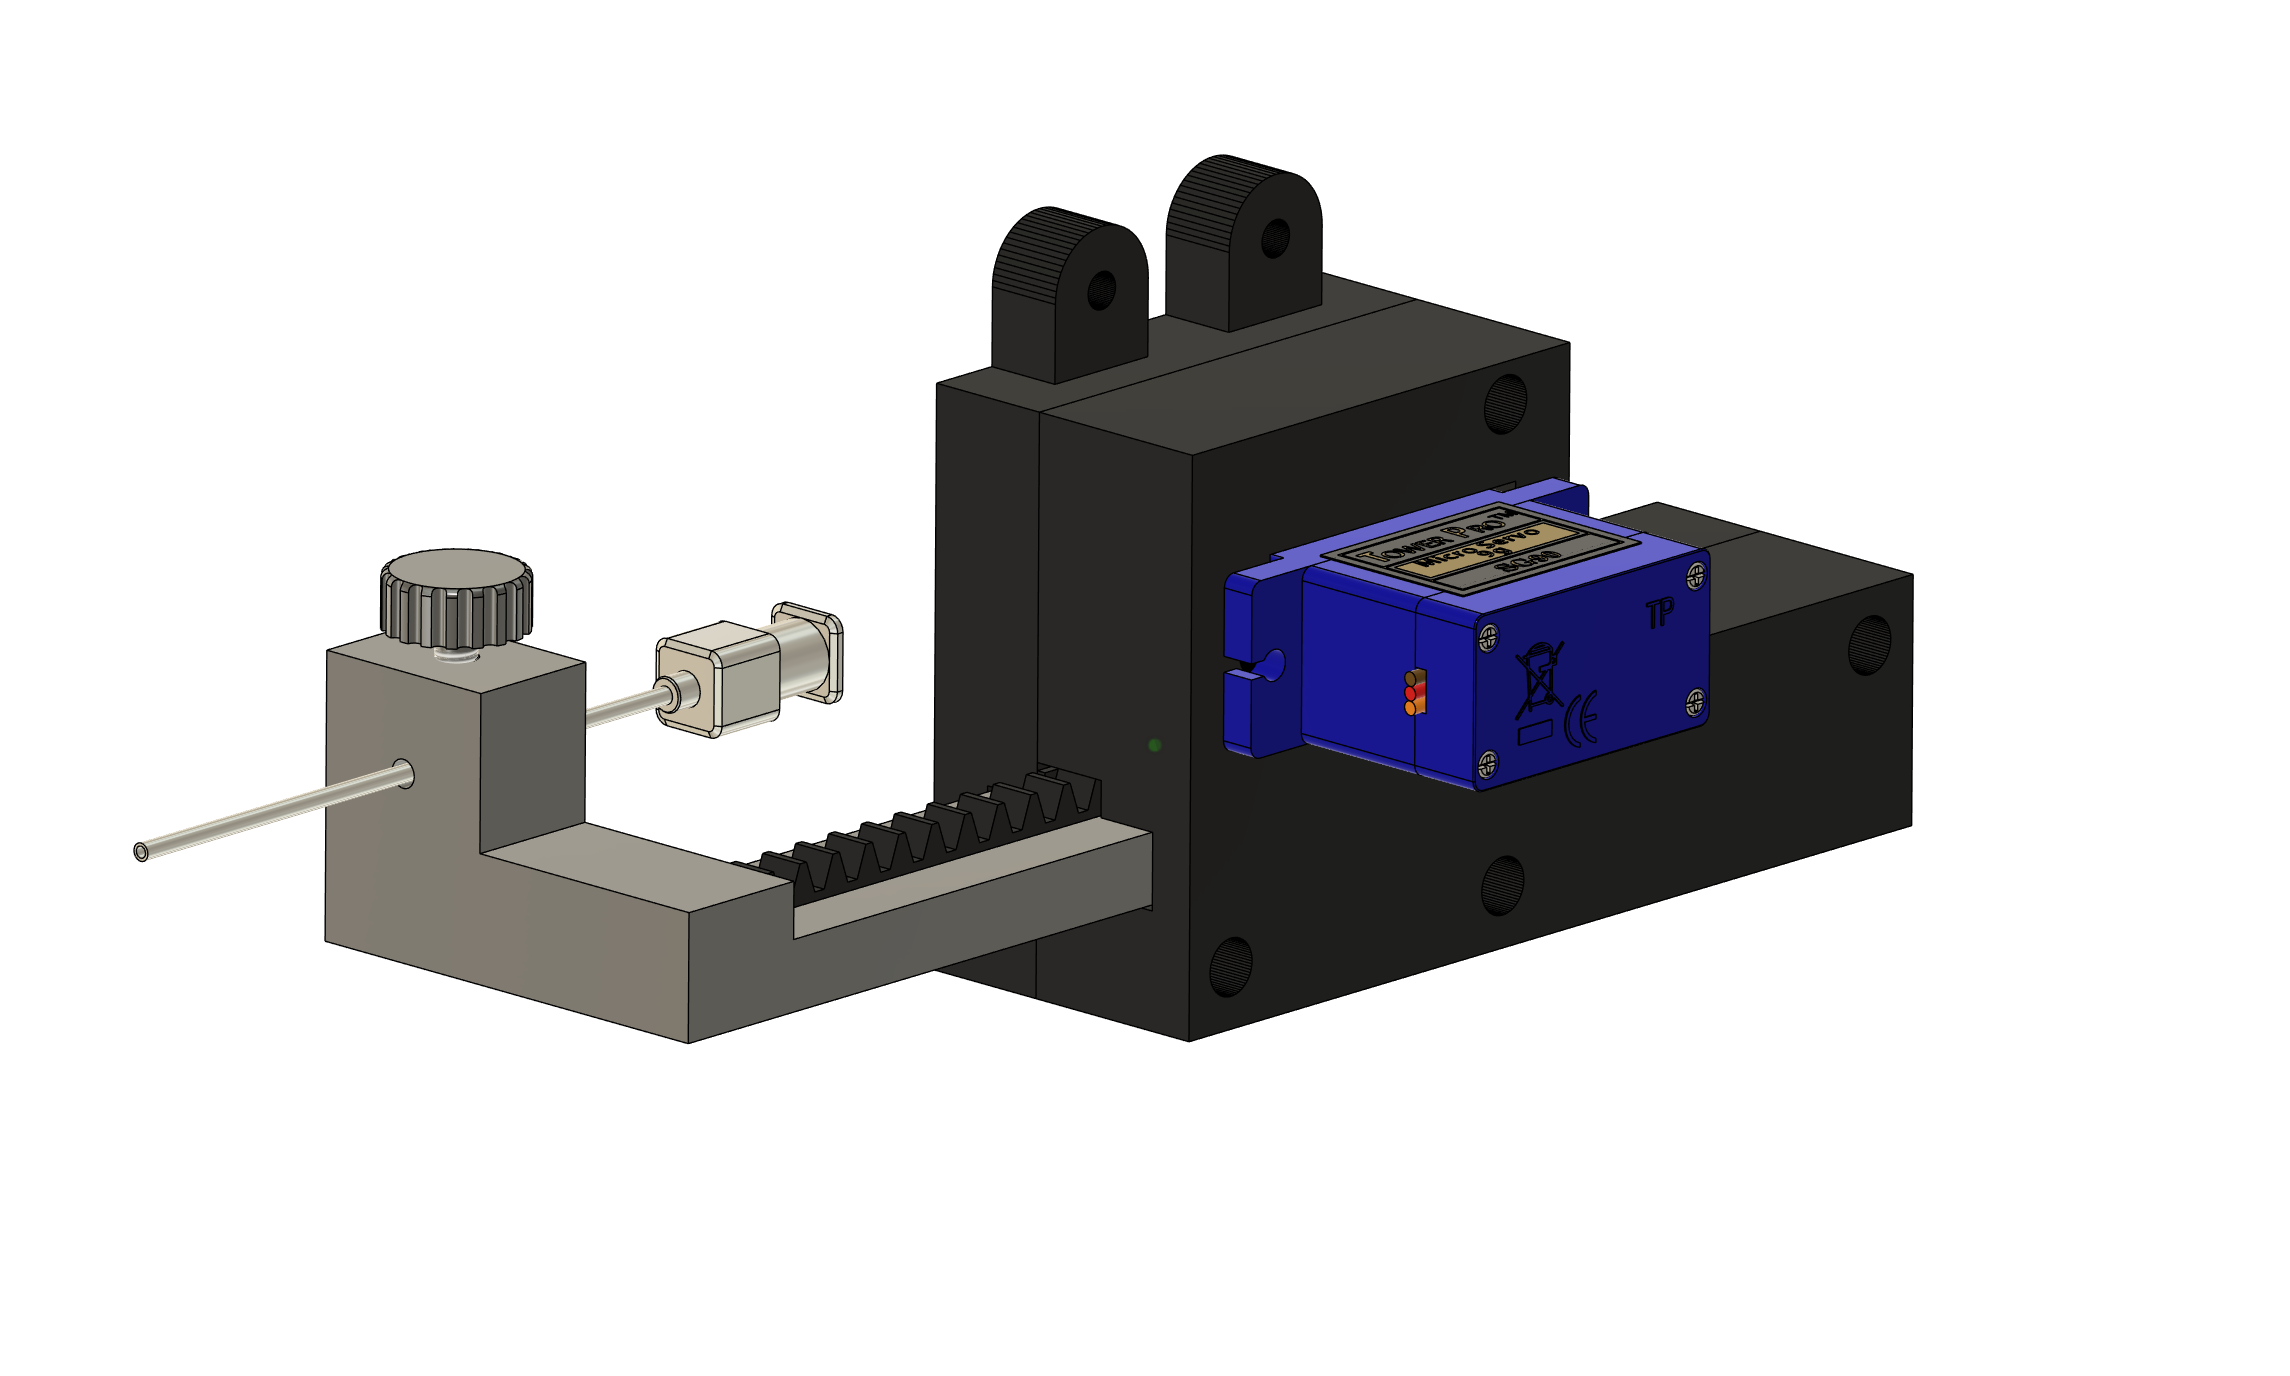
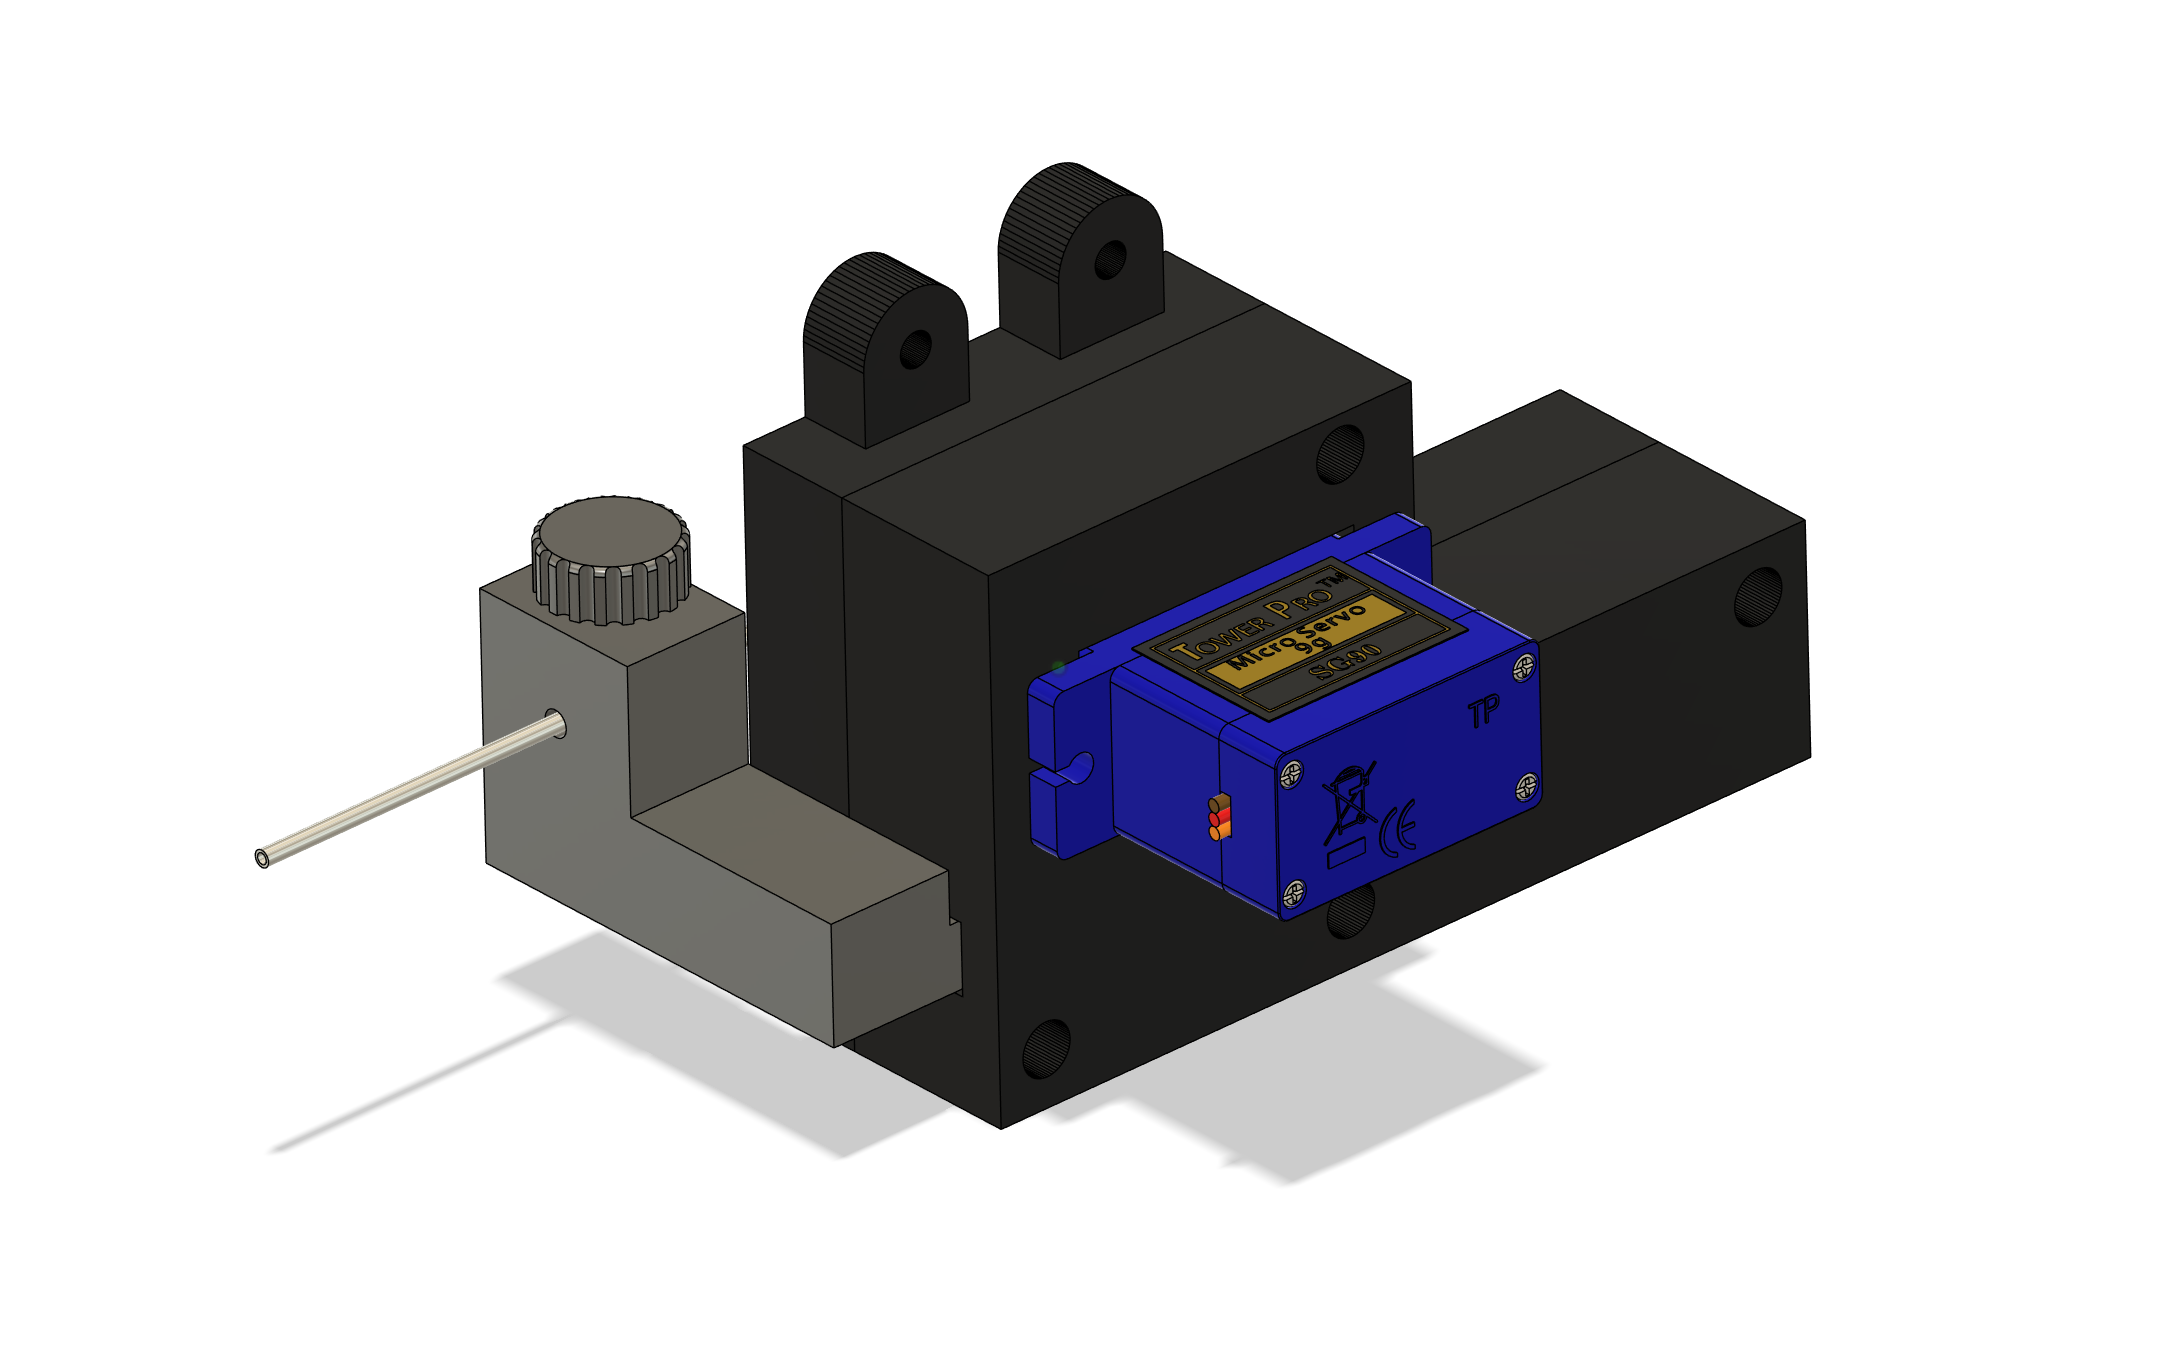
new renderings

diff --git a/README.md b/README.md
@@ -6,13 +6,37 @@ This is a guide to build your own motorized lickometer based on the arduino capa
 Requirements:
 Basic Arduino Skills - link to arduino introduction here
 
-![Rotary_Action](/Images/Rotary_Action.gif)
-![Rotary_Action](/Images/Rotary_Action.png)
 
-![Linear_Action](/Images/Linear_Action.png)
-**Figure 1:** Linear actuator adapted from OHRBETS repository. Lickspout (grey) holder was redesigned to fit a delta maze.
+## Motorization of Lickspout
 
-https://github.com/agordonfennell/OHRBETS
+
+<p align="center">
+  <img src="./Images/Rotary_Action.gif" height="250">
+  <img src="./Images/Rotary_Action.png" height="250">
+</p>
+
+**Figure 1:** Rotary actuator to hide and show the lickspout to headfixed specimens in a behavior experiment for neuroscience research.
+
+
+<p align="center">
+  <img src="./Images/Linear_Action.gif" height="200">
+  <img src="./Images/Linear_Action.png" height="200">
+</p>
+
+**Figure 2:** Linear actuator adapted from [OHRBETS Repository](https://github.com/agordonfennell/OHRBETS) with modified Lickspout holder for [Hugo Basile Delta Maze](https://ugobasile.com/products/categories/mazes-tracking/delta-maze). Modified holder is available [here](/Manufacturing_Files/Linear_Action/).
+
+
+
+
+## Electronics
+
+![Schematic of LickOmeter](/Images/schematic.png)
+
+Lickspout (grey) holder was redesigned to fit a delta maze.
+
+
+
+
 
 test
 
@@ -115,7 +139,11 @@ Via digital analog signals or via serial communication
 
 
 
-![Schematic of LickOmeter](/Images/schematic.png)
+Modified Version of the Following Sources:
+Device: https://scanbox.org/2016/04/14/a-simple-lick-o-meter-and-liquid-reward-delivery-system/
+(The code of the Manual above did not work)
+Code: https://playground.arduino.cc/Main/CapacitiveSensor/
+
 
 
 
